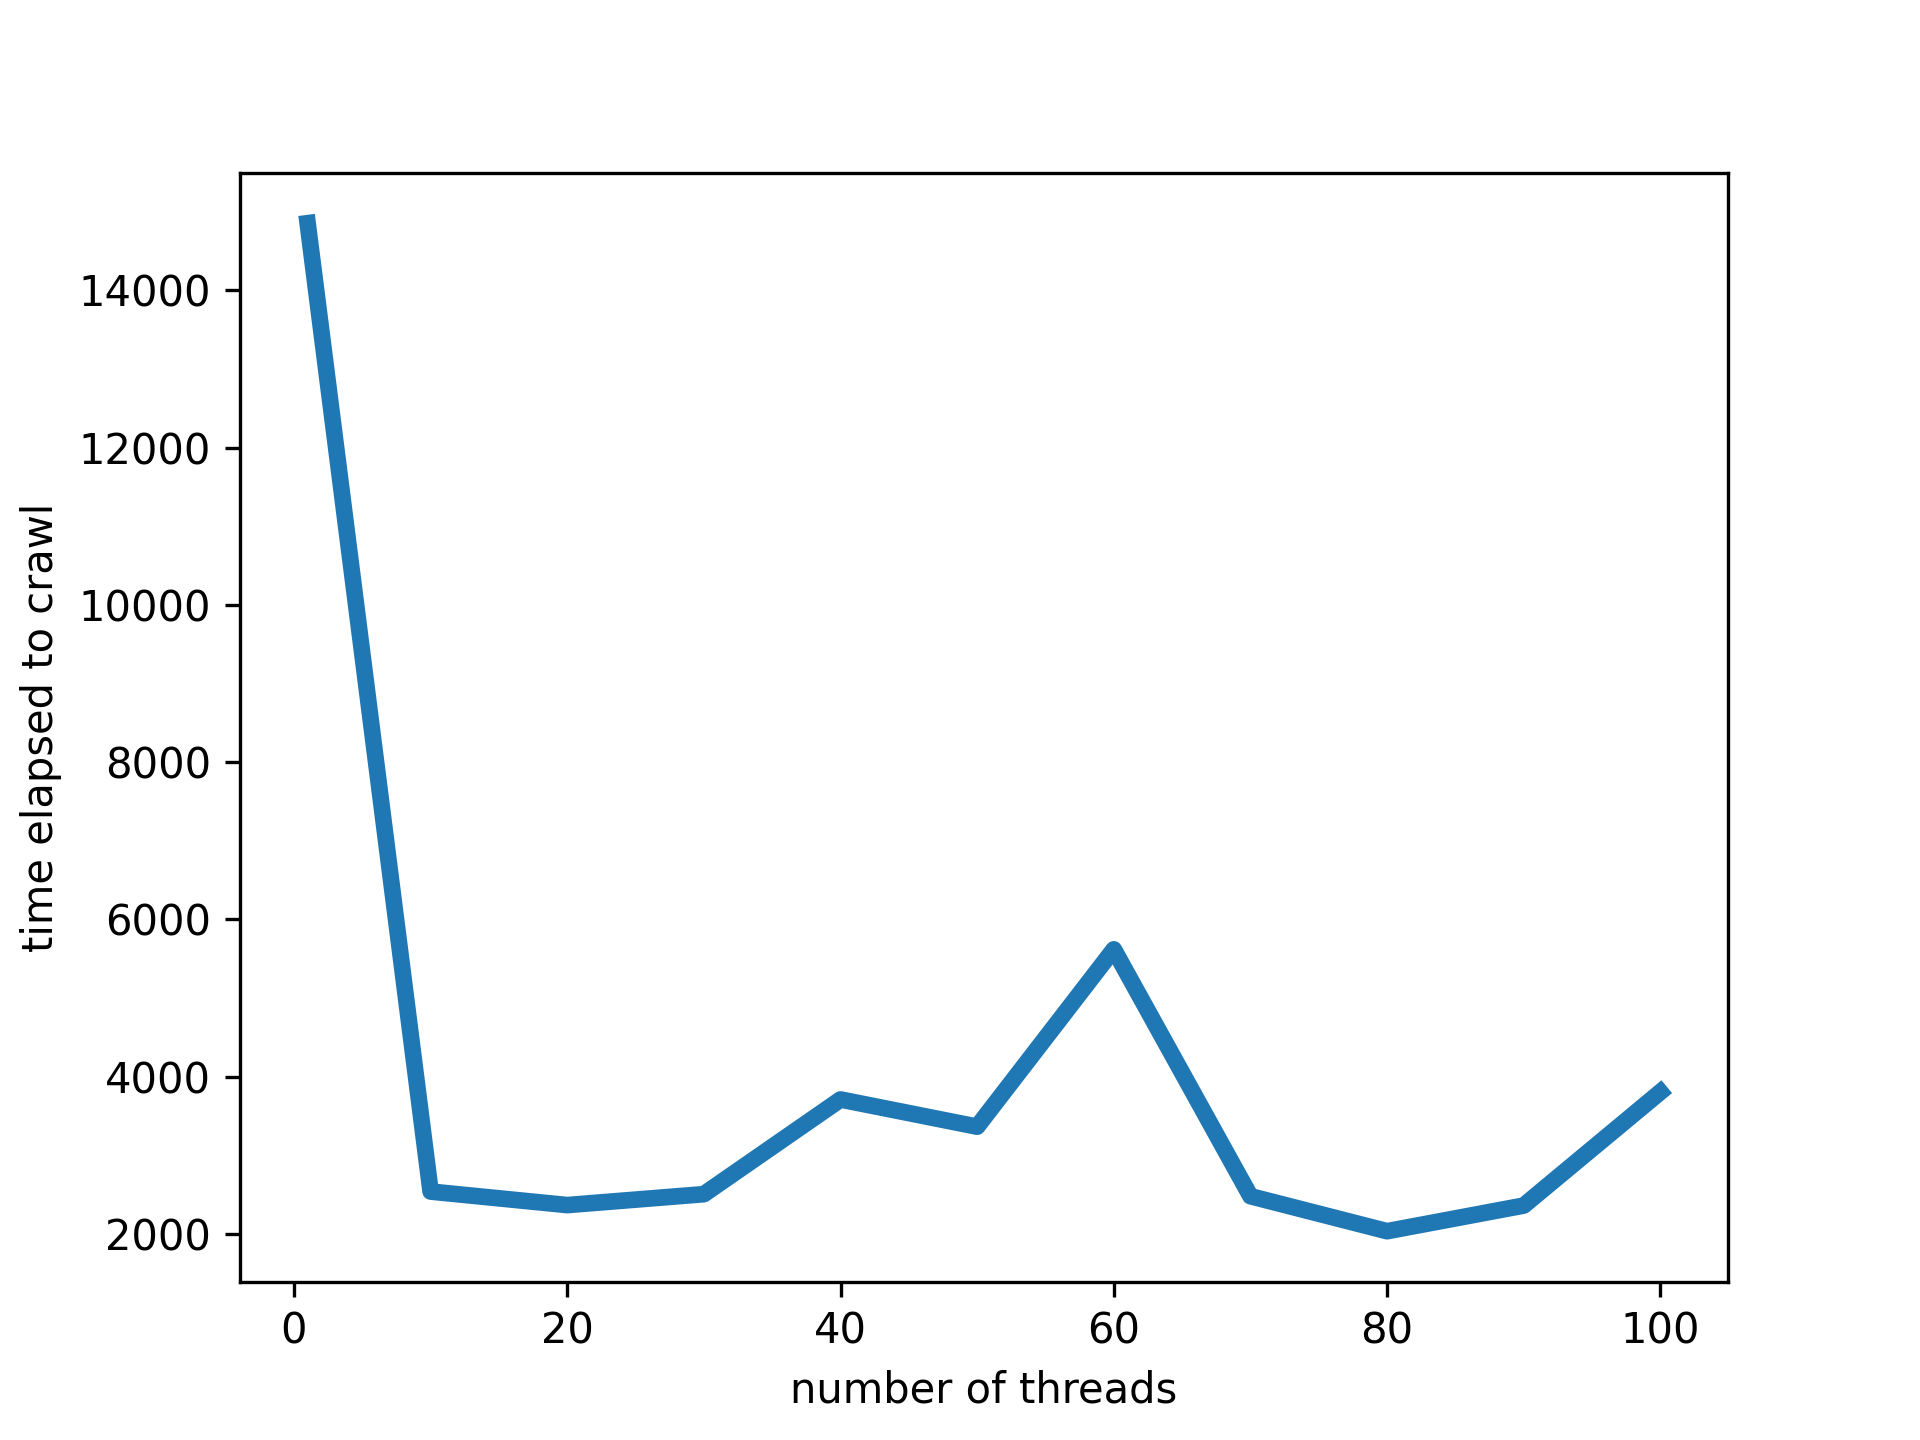
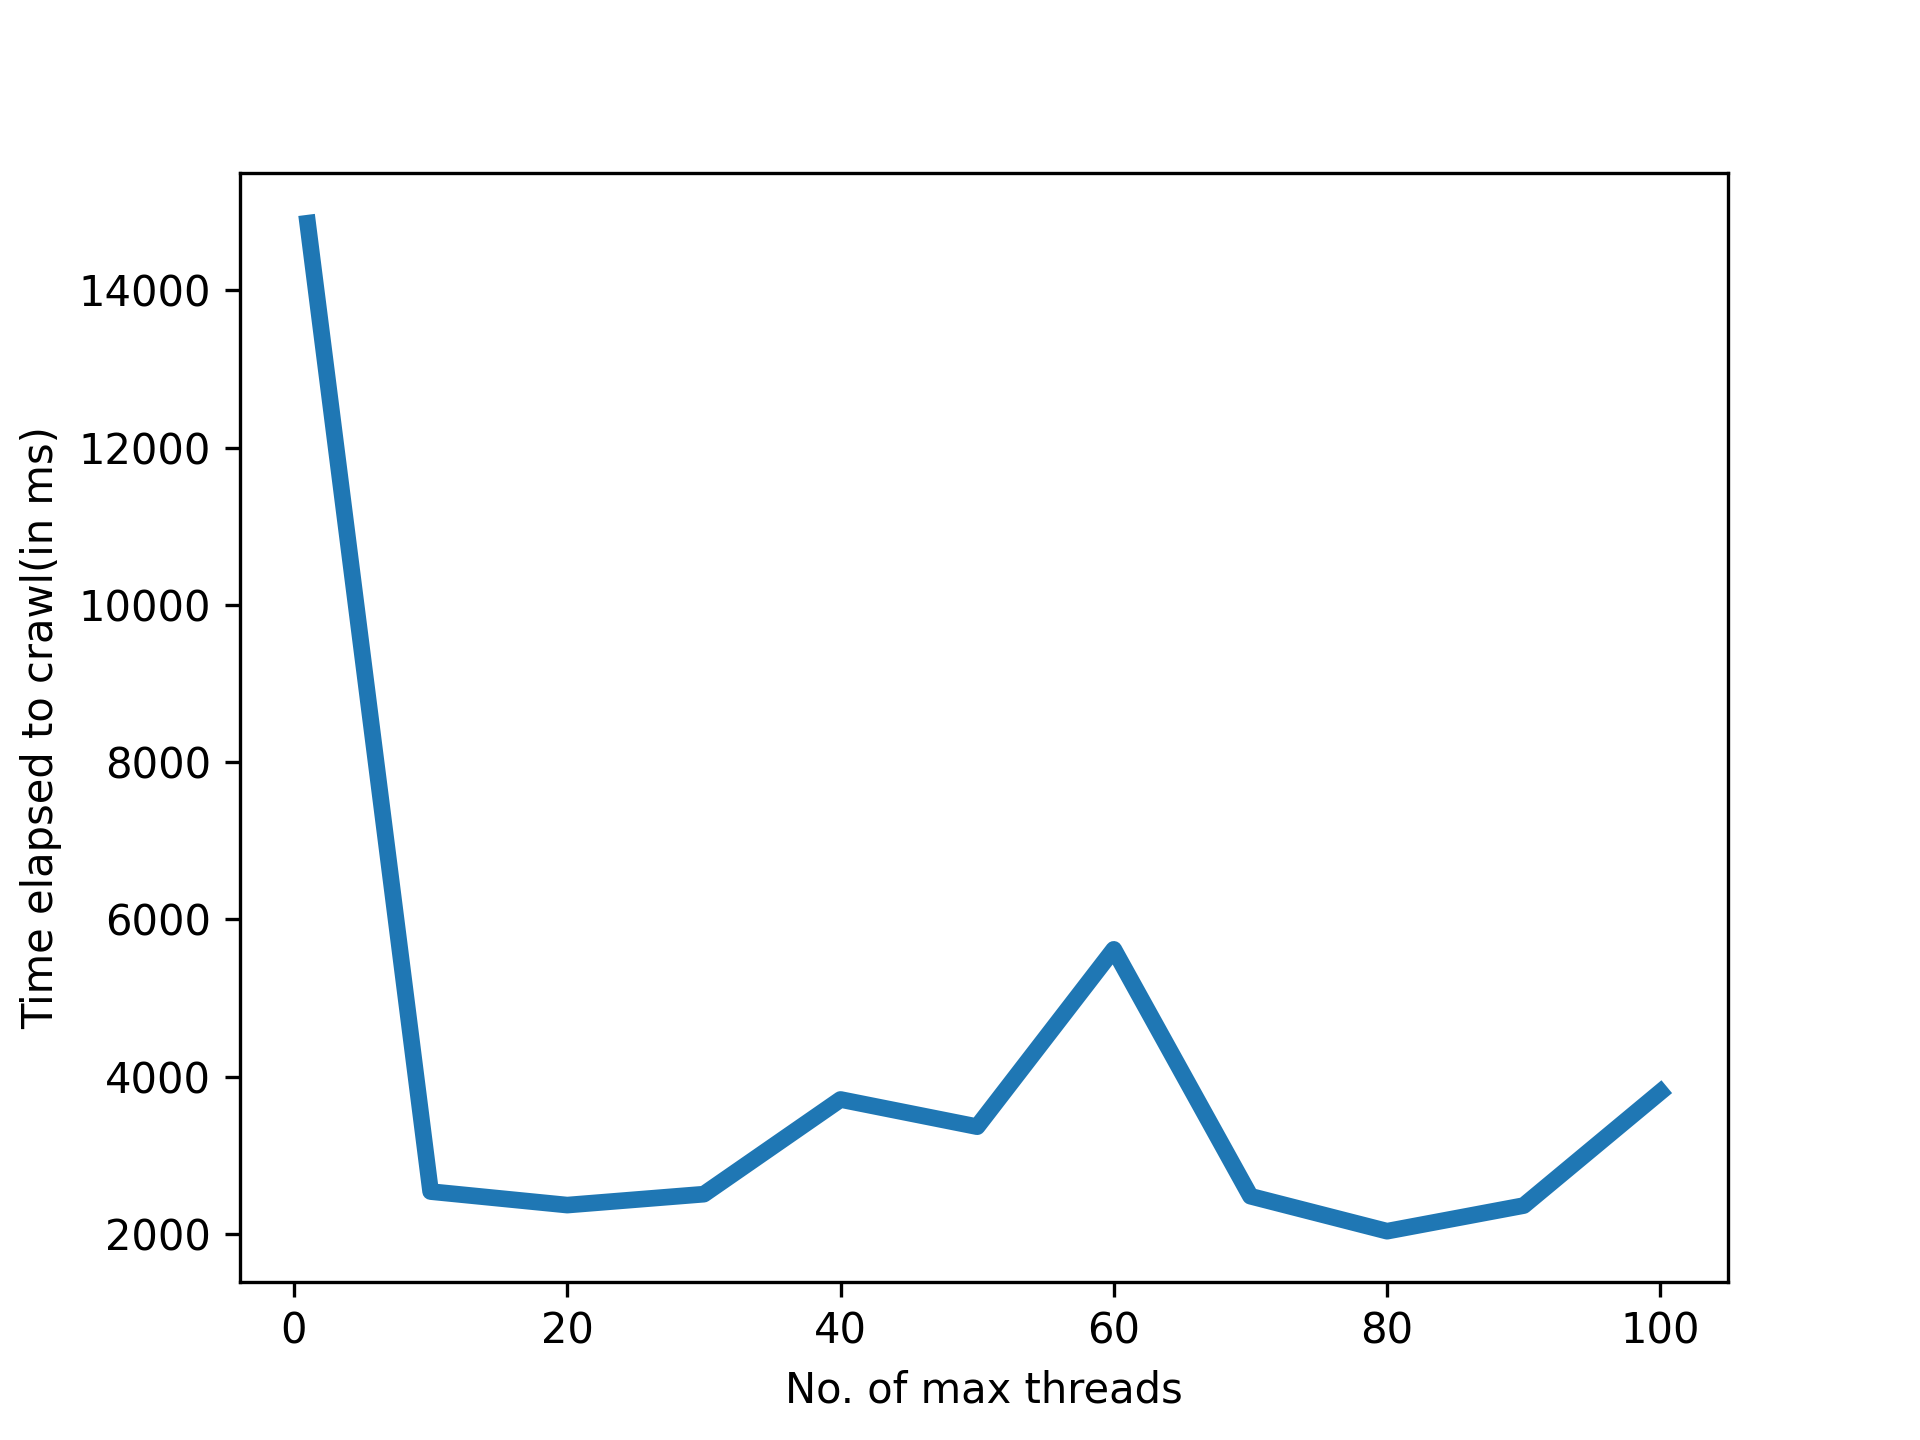
updating Crawler_analytics.png

Changed region(s): [[0.0, 0.3125, 0.0312, 0.7188], [0.4062, 0.9375, 0.625, 1.0]]

diff --git a/test_bench.py b/test_bench.py
@@ -15,7 +15,7 @@ with open('OUTPUT/crawler_timings.csv') as csv_file:
 
 
 plt.plot(x, time_elap, linewidth = 4)
-plt.xlabel("number of threads")
-plt.ylabel("time elapsed to crawl")
+plt.xlabel("No. of max threads")
+plt.ylabel("Time elapsed to crawl(in ms)")
 
 plt.savefig('OUTPUT/crawler_analytics.png', dpi=300)
